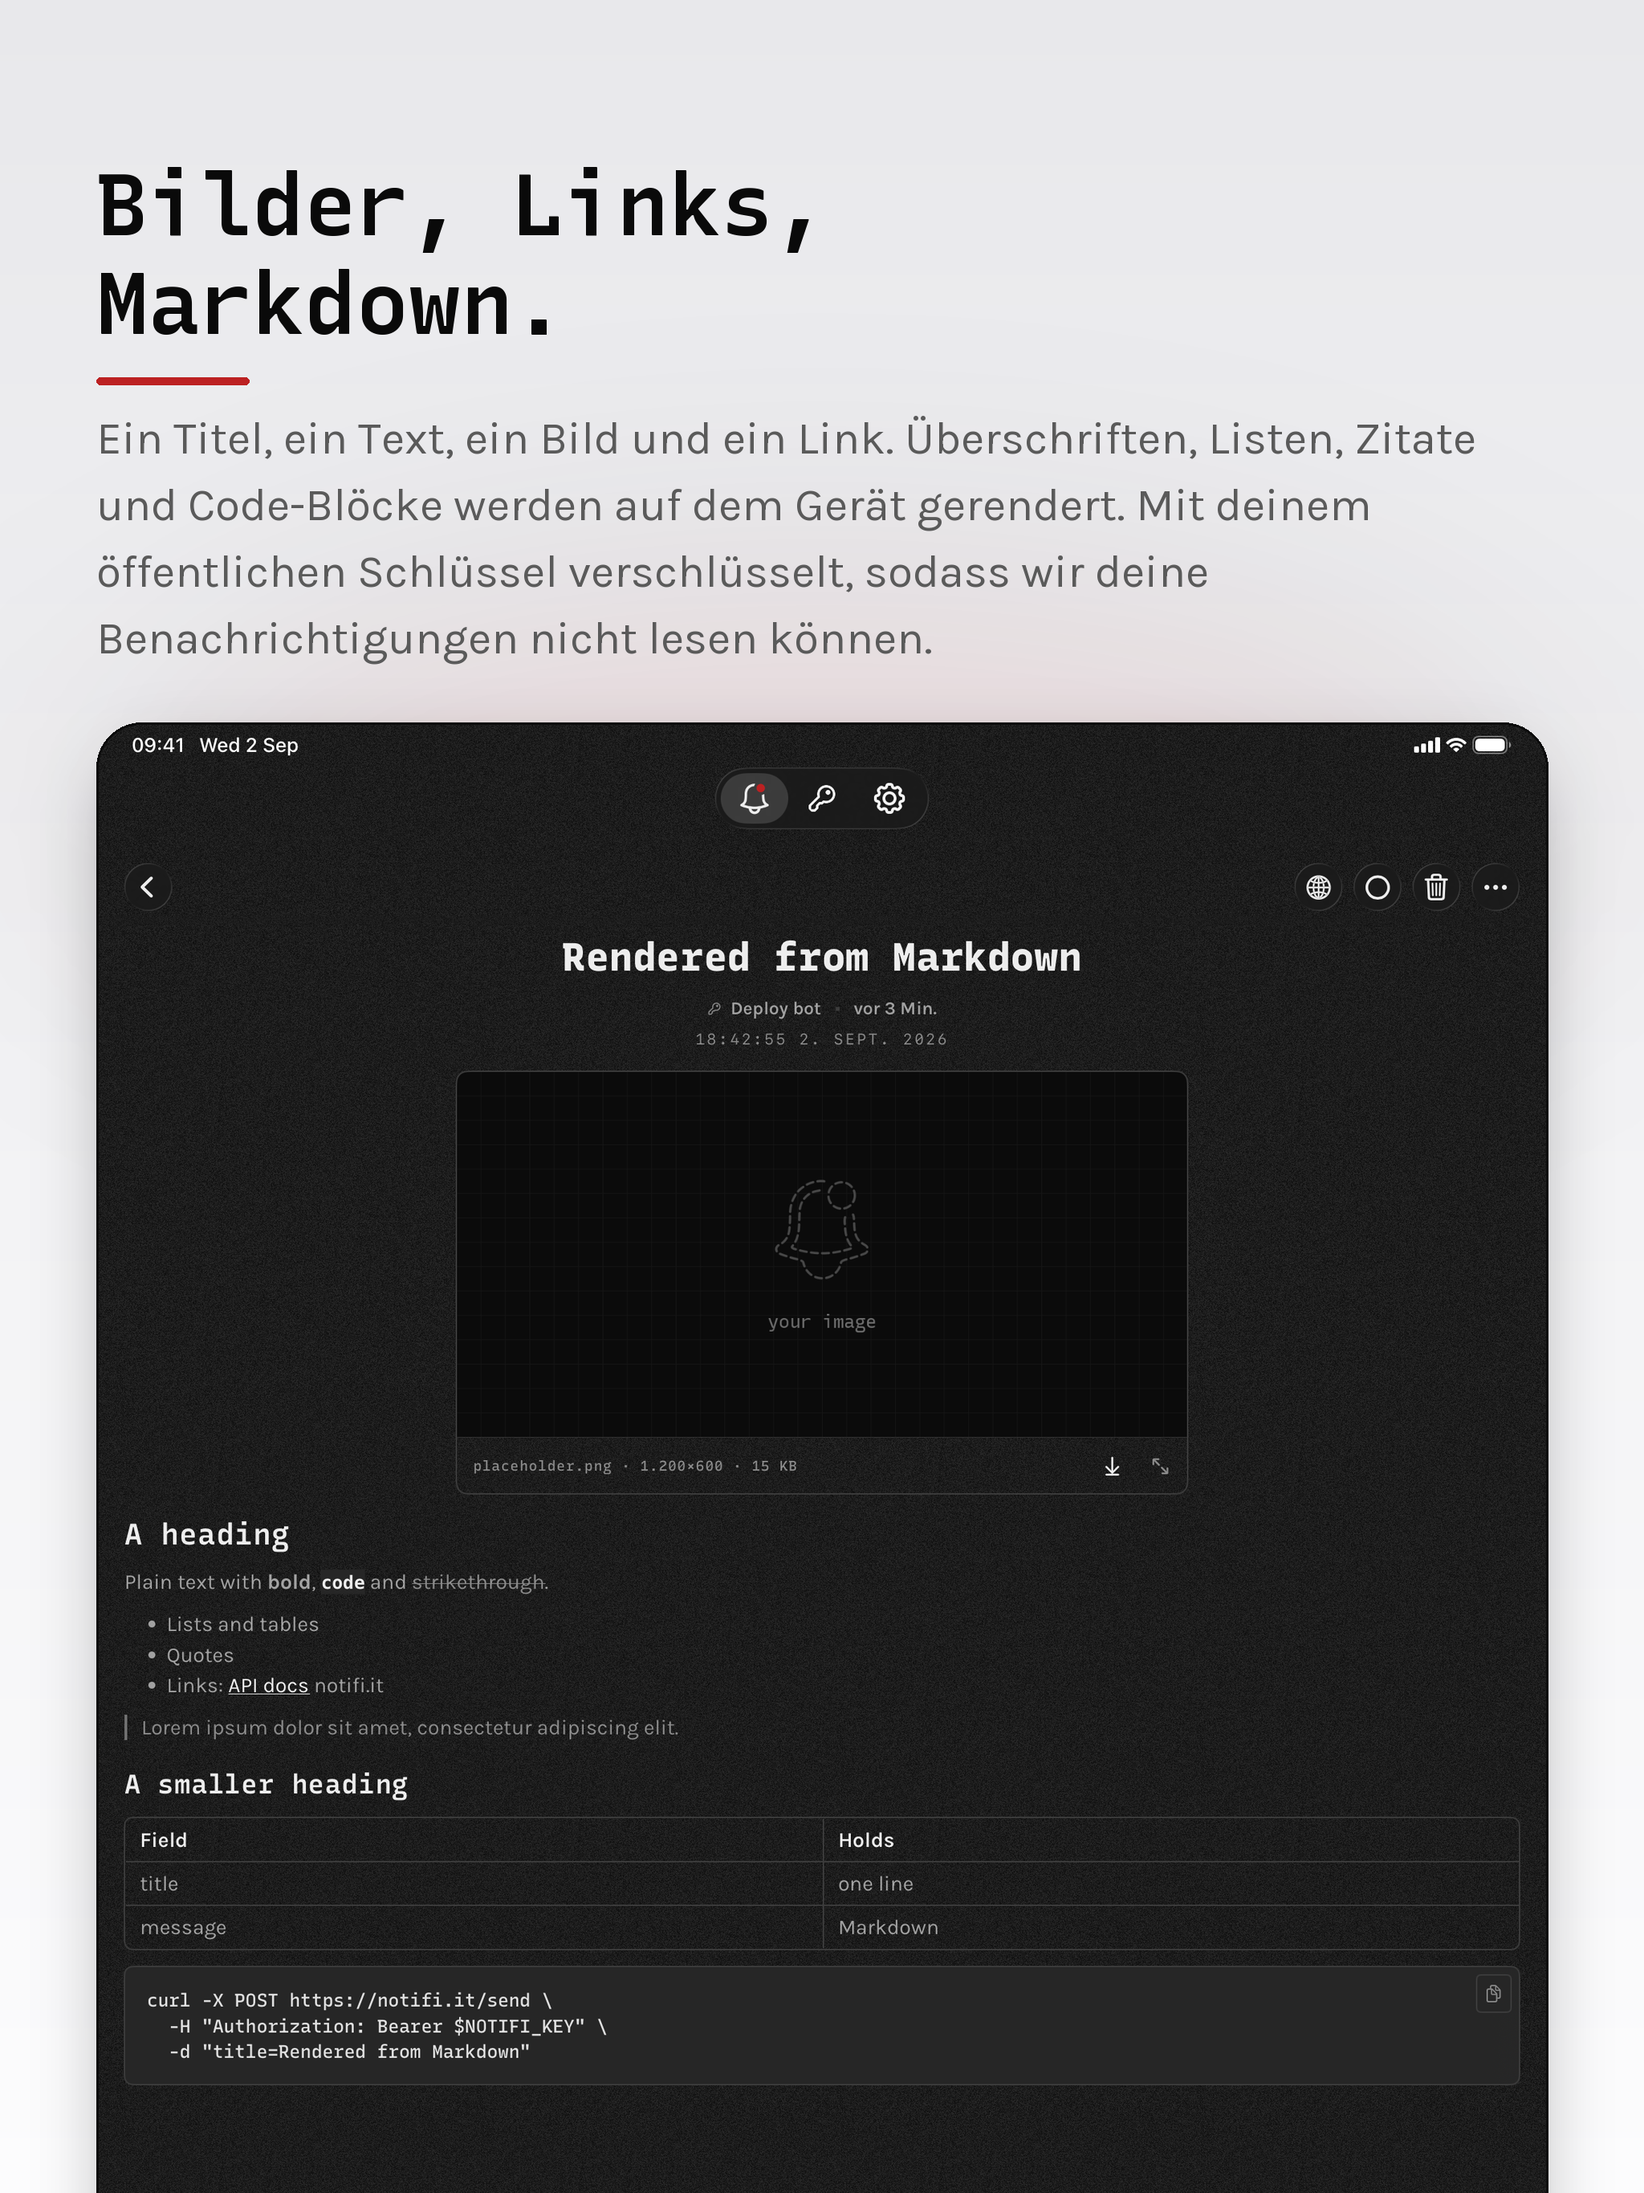
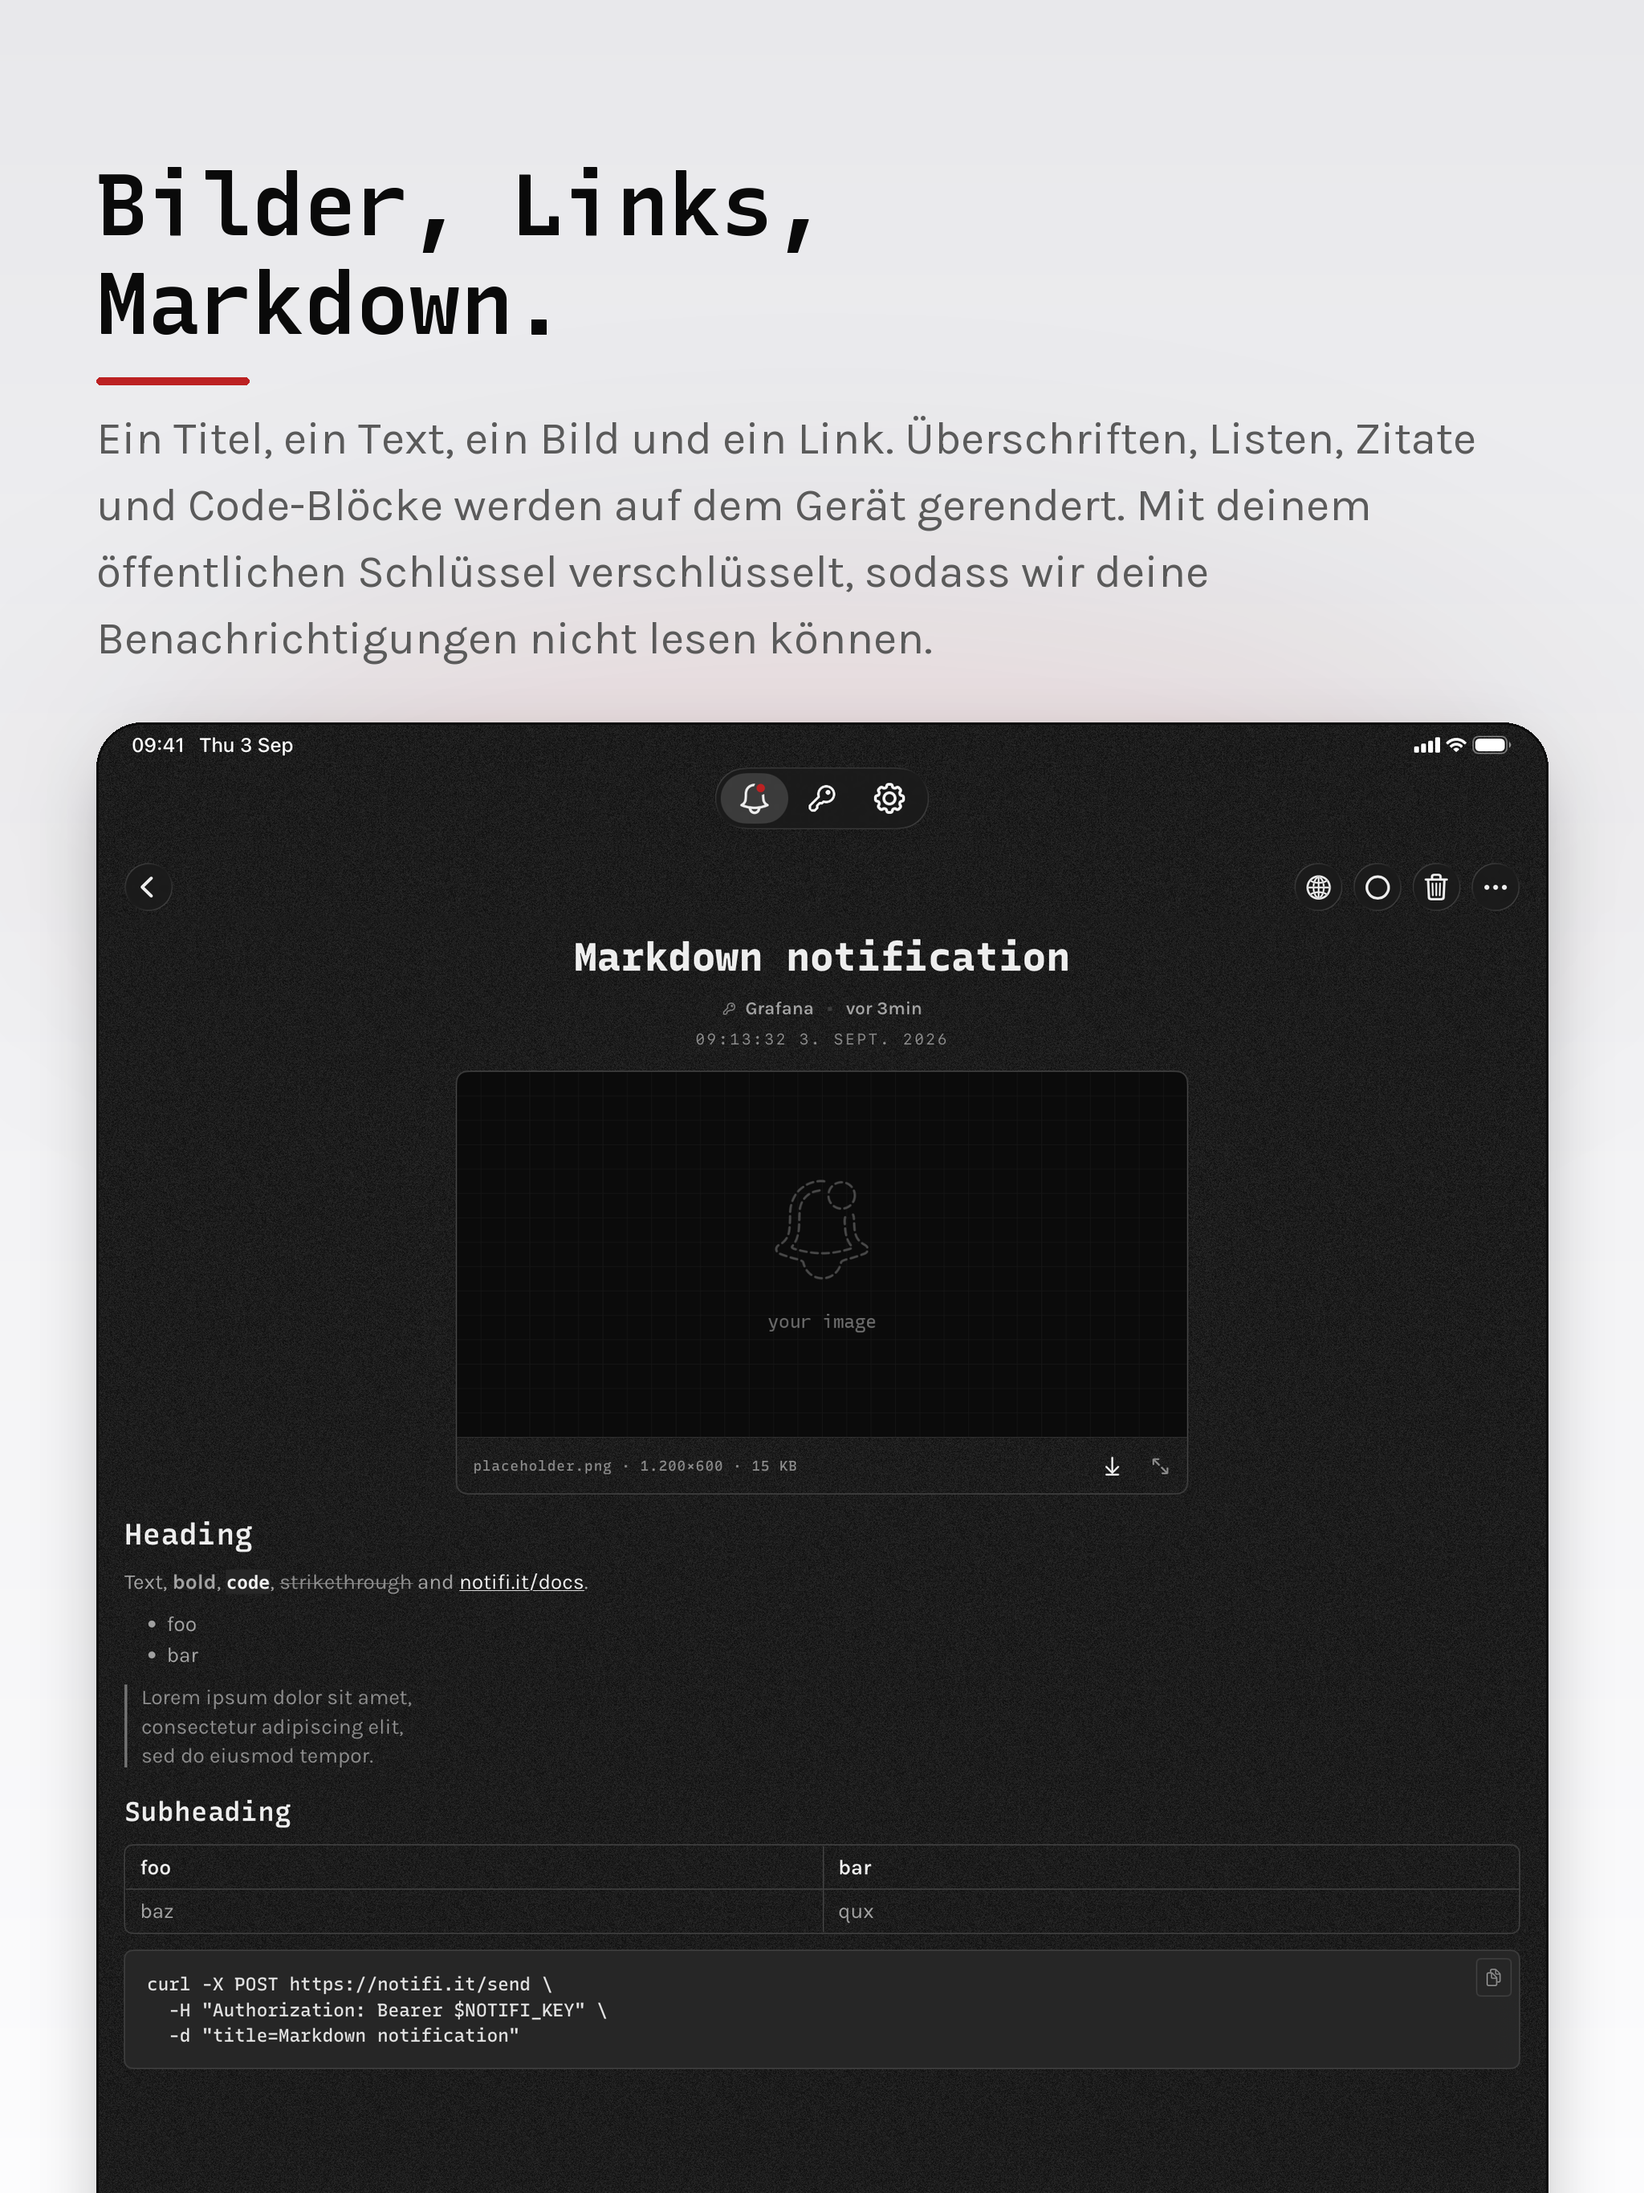
Showcase body to the cheat-sheet shape, and resolve the tool interpreters
The sample notification is "Markdown notification" from the Grafana key, and
its body follows the shape of the standard Markdown demos: two heading
levels, an inline-styles line with the link written as notifi.it/docs, a
foo/bar list, a three-line lorem ipsum quote with hard breaks, a foo/bar
baz/qux table and the curl send. A link whose text already shows its host
no longer has the host appended after it.

The Makefile now picks the python3 that has Pillow and fontTools and the
bundle that matches Gemfile.lock, and exports both; a login shell that puts
/usr/bin first was handing the capture scripts and the fastlane lanes the
system interpreters, and a run failed on the framing step after every
capture had been taken. Every screenshot set is regenerated.

diff --git a/apps/app/Shared/Support/SampleData.swift b/apps/app/Shared/Support/SampleData.swift
@@ -68,27 +68,27 @@ enum SampleData {
     }
 
     private static let showcaseBody = """
-    ## A heading
+    ## Heading
 
-    Plain text with **bold**, `code` and ~~strikethrough~~.
+    Text, **bold**, `code`, ~~strikethrough~~ and [notifi.it/docs](https://notifi.it/docs).
 
-    - Lists and tables
-    - Quotes
-    - Links: [API docs](https://notifi.it/docs)
+    - foo
+    - bar
 
-    > Lorem ipsum dolor sit amet, consectetur adipiscing elit.
+    > Lorem ipsum dolor sit amet,\\
+    > consectetur adipiscing elit,\\
+    > sed do eiusmod tempor.
 
-    ### A smaller heading
+    ### Subheading
 
-    | Field | Holds |
+    | foo | bar |
     | --- | --- |
-    | title | one line |
-    | message | Markdown |
+    | baz | qux |
 
     ```
     curl -X POST https://notifi.it/send \\
       -H "Authorization: Bearer $NOTIFI_KEY" \\
-      -d "title=Rendered from Markdown"
+      -d "title=Markdown notification"
     ```
     """
 
@@ -353,11 +353,11 @@ enum SampleData {
             context.insert(
                 Message(
                     serverID: showcaseID,
-                    title: "Rendered from Markdown",
+                    title: "Markdown notification",
                     body: showcaseBody,
                     link: URL(string: "https://notifi.it/docs"),
                     imageURL: URL(string: "\(demo)/placeholder.png"),
-                    keyID: keyIDs.dropFirst().first,
+                    keyID: keys.first(where: { $0.name == "Grafana" })?.id,
                     createdAt: ago(3),
                     occurredAt: nil,
                     isRead: false,

diff --git a/apps/app/Shared/Views/MessageDetailView.swift b/apps/app/Shared/Views/MessageDetailView.swift
@@ -735,11 +735,14 @@ enum BodyLinks {
         for match in regex.matches(in: source,
                                    range: NSRange(location: 0, length: ns.length)) {
             guard let whole = Range(match.range, in: source),
+                  let textRange = Range(match.range(at: 1), in: source),
                   let urlRange = Range(match.range(at: 2), in: source),
                   let url = URL(string: String(source[urlRange])) else { continue }
             out += source[cursor..<whole.upperBound]
             let host = url.host() ?? url.absoluteString
-            out += " \(host)"
+            if !source[textRange].localizedCaseInsensitiveContains(host) {
+                out += " \(host)"
+            }
             links.append(url)
             cursor = whole.upperBound
         }
